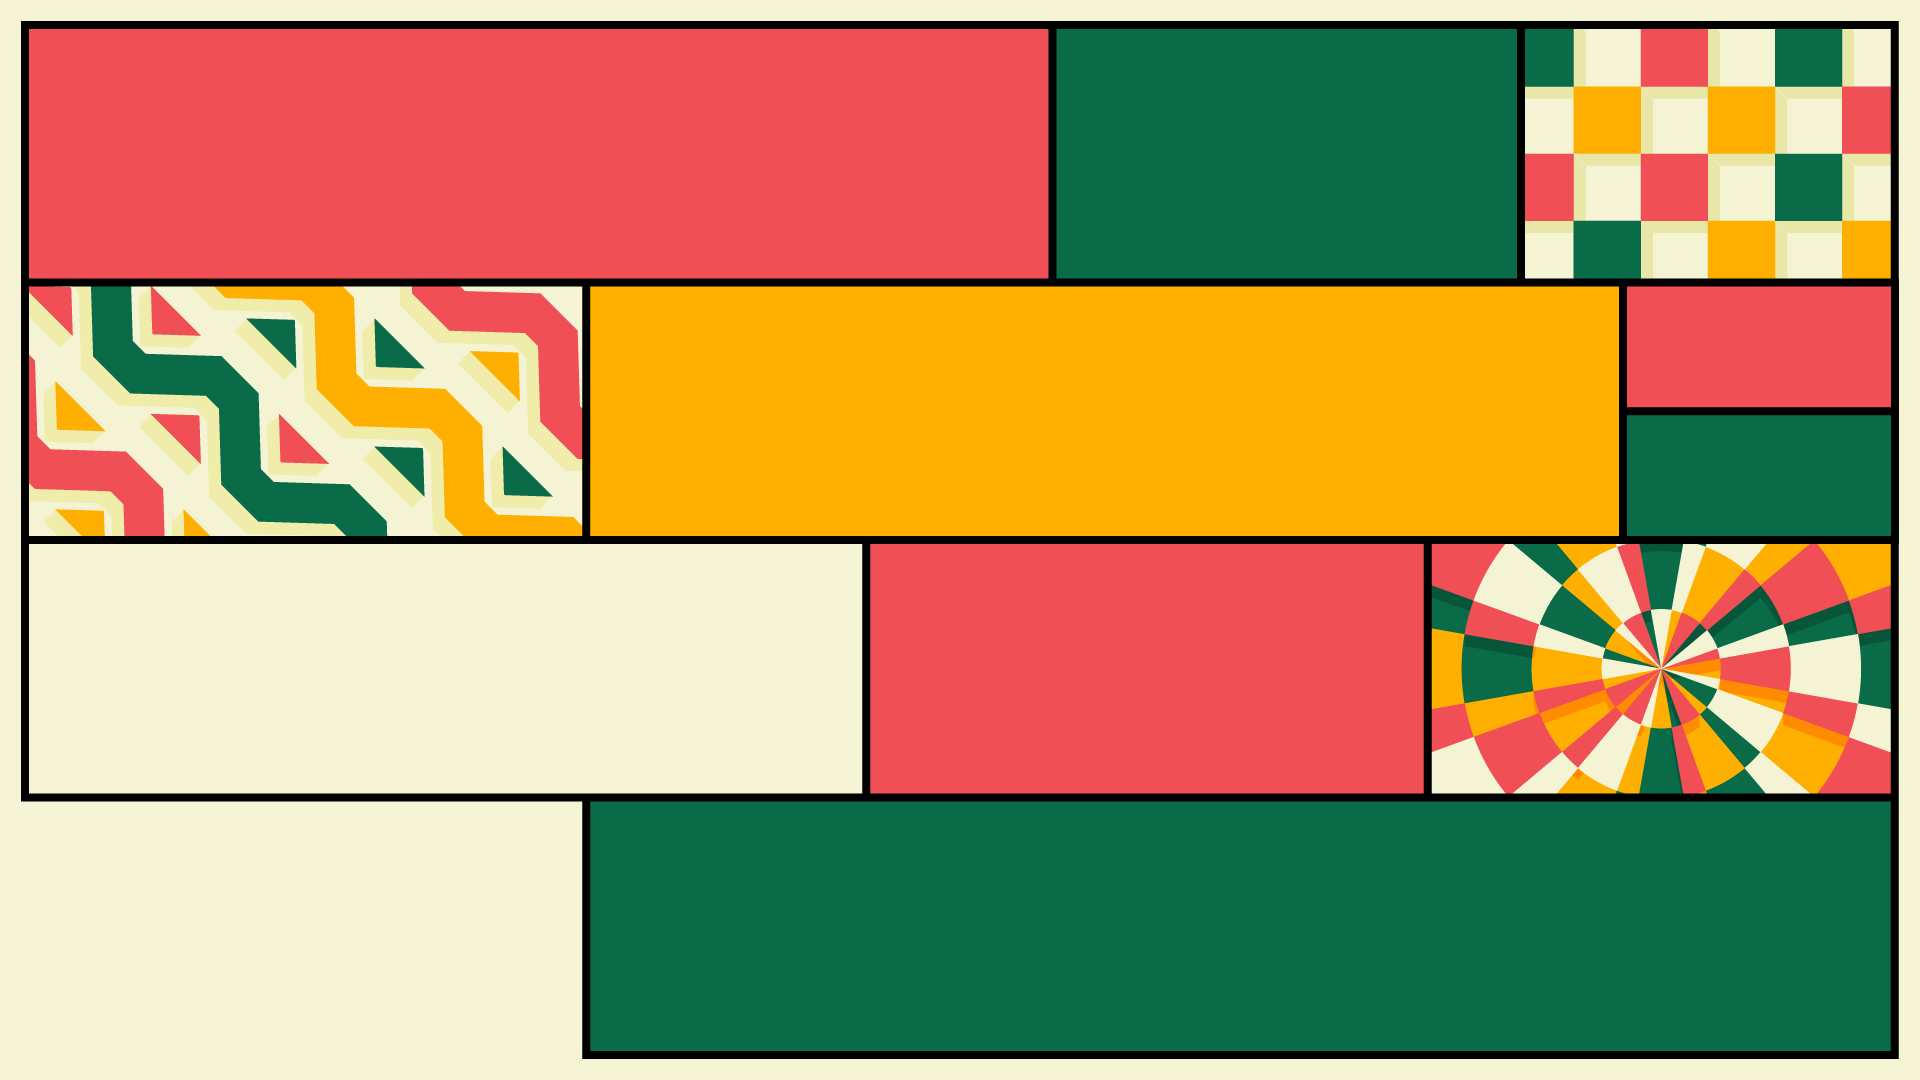
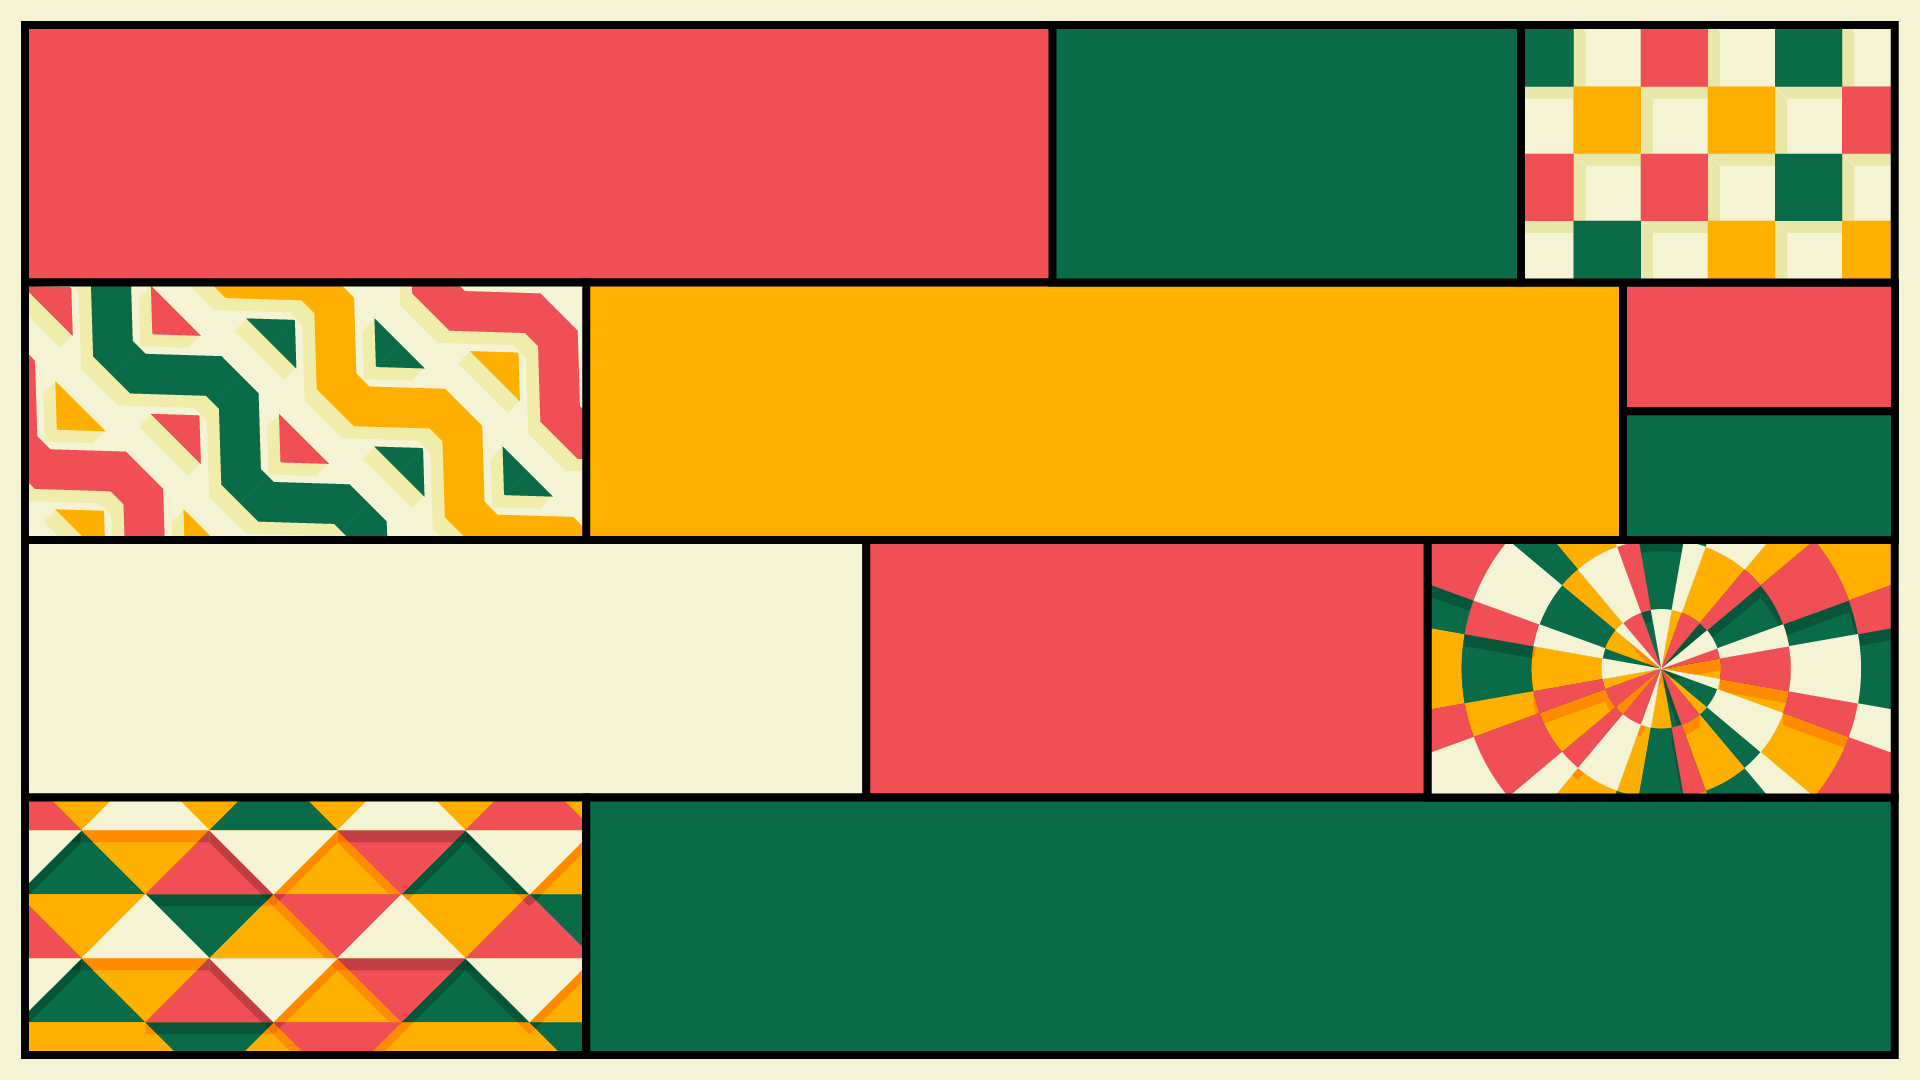
page4

Changed region(s): [[0.0, 0.7333, 0.3125, 1.0]]

diff --git a/src/components/page4/stylepage4.css b/src/components/page4/stylepage4.css
@@ -1,0 +1,42 @@
+.boxxess {
+  width: 100vw;
+  height: 100vh;
+  background-image: url(../../assets/page4.png);
+  background-size: 100vw 100vh;
+  padding: 0px;
+  display: flex;
+}
+
+.kiri {
+  /* background: black; */
+  width: 1065px;
+}
+
+.kiriatas {
+  /* background: aqua; */
+  width: 100%;
+  height: 462px;
+}
+
+.kiribawah {
+  /* background: aqua; */
+  width: 100%;
+  height: 269px;
+}
+
+.kanan {
+  /* background: aqua; */
+  width: 471px;
+}
+
+.kananatas {
+  /* background: aqua; */
+  width: 100%;
+  height: 462px;
+}
+
+.kananbawah {
+  /* background: aqua; */
+  width: 100%;
+  height: 269px;
+}

diff --git a/src/components/page4/page4.js b/src/components/page4/page4.js
@@ -1,0 +1,19 @@
+import React from "react";
+import "./stylepage4.css";
+
+function page4() {
+  return (
+    <div className="boxxess">
+      <div className="kiri">
+        <div className="kiriatas"></div>
+        <div className="kiribawah"></div>
+      </div>
+      <div className="kanan">
+        <div className="kananatas"></div>
+        <div className="kananbawah"></div>
+      </div>
+    </div>
+  );
+}
+
+export default page4;

diff --git a/src/App.js b/src/App.js
@@ -1,6 +1,7 @@
 import Cover from "./components/cover/cover";
 import Page1 from "./components/page1_1/page1_1";
 import Page3 from "./components/page3/page3";
+import Page4 from "./components/page4/page4";
 
 function App() {
   return (
@@ -8,6 +9,7 @@ function App() {
       <Cover />
       <Page1 />
       <Page3 />
+      <Page4 />
     </div>
   );
 }
